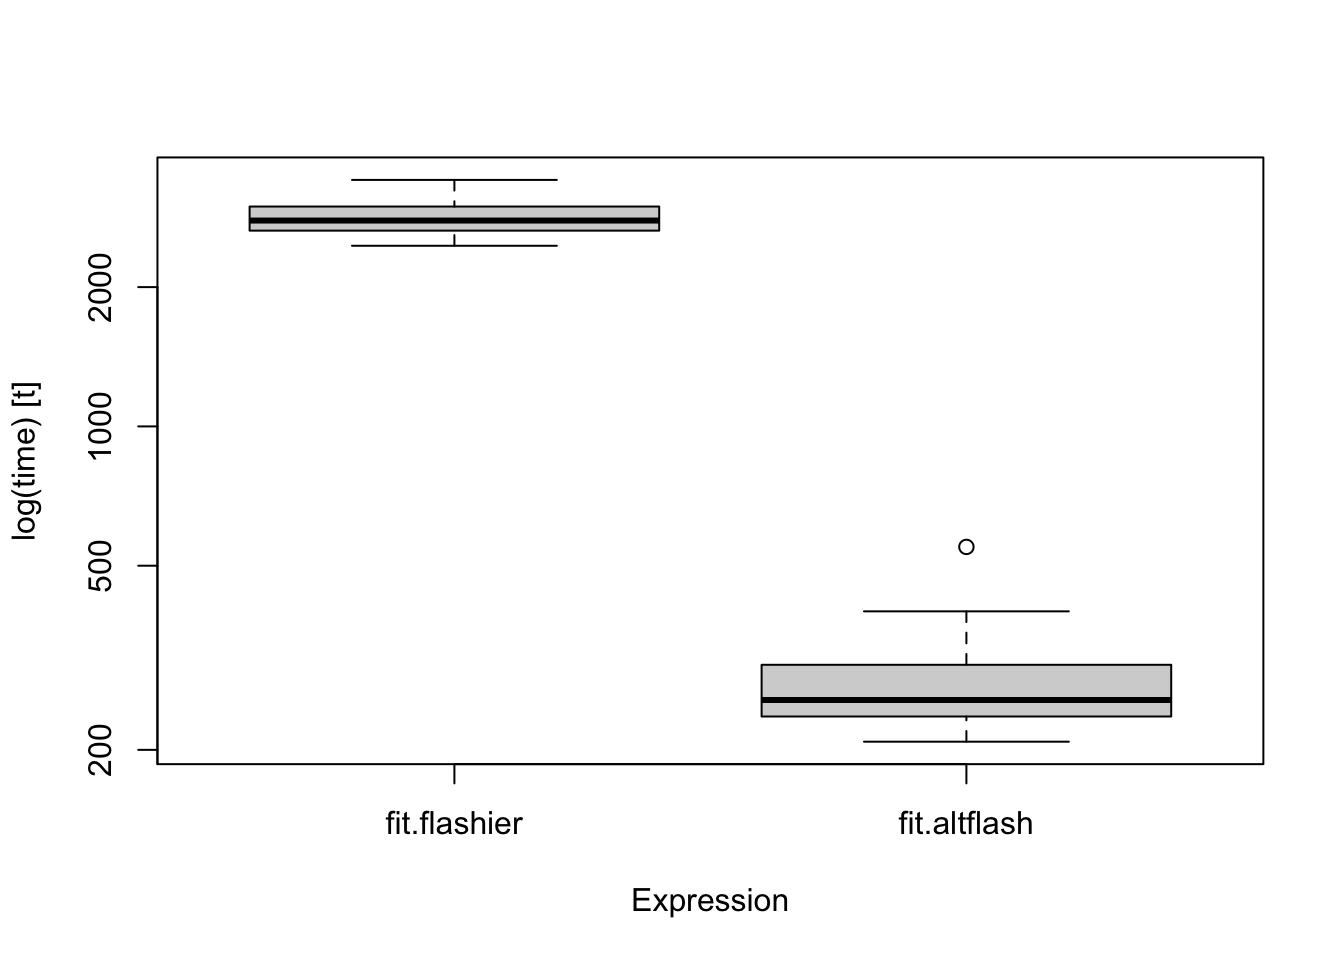
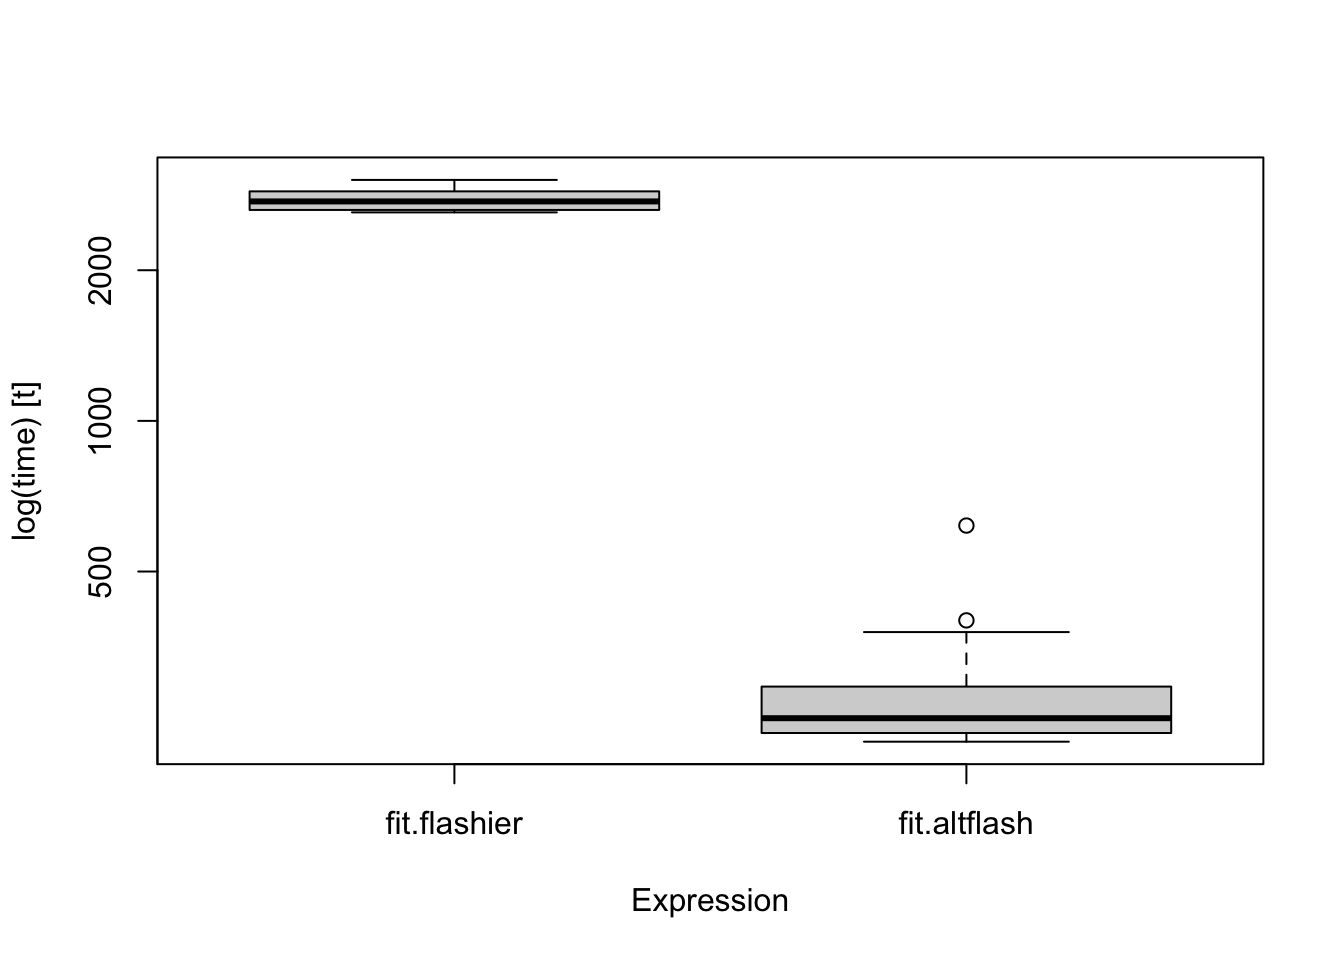
Build site.

diff --git a/docs/alt-flash-normal.html b/docs/alt-flash-normal.html
@@ -476,16 +476,16 @@ This reproducible <a href="http://rmarkdown.rstudio.com">R Markdown</a> analysis
 <div class="panel panel-default">
 <div class="panel-heading">
 <p class="panel-title">
-<a data-toggle="collapse" data-parent="#workflowr-checks" href="#strongRepositoryversionstrongahrefhttpsgithubcomjoonsukkangmftree3224ca8c09505ec0afbc75585a0d6d109eaf7c94targetblank3224ca8a"> <span class="glyphicon glyphicon-ok text-success" aria-hidden="true"></span> <strong>Repository version:</strong> <a href="https://github.com/joonsukkang/mf/tree/3224ca8c09505ec0afbc75585a0d6d109eaf7c94" target="_blank">3224ca8</a> </a>
+<a data-toggle="collapse" data-parent="#workflowr-checks" href="#strongRepositoryversionstrongahrefhttpsgithubcomjoonsukkangmftree37b60336fdfea9e82f7430f1d20f1989ba3b6991targetblank37b6033a"> <span class="glyphicon glyphicon-ok text-success" aria-hidden="true"></span> <strong>Repository version:</strong> <a href="https://github.com/joonsukkang/mf/tree/37b60336fdfea9e82f7430f1d20f1989ba3b6991" target="_blank">37b6033</a> </a>
 </p>
 </div>
[2 lines of base64/hex data omitted]
 <div class="panel-body">
 <p>
 Great! You are using Git for version control. Tracking code development and connecting the code version to the results is critical for reproducibility.
 </p>
 <p>
-The results in this page were generated with repository version <a href="https://github.com/joonsukkang/mf/tree/3224ca8c09505ec0afbc75585a0d6d109eaf7c94" target="_blank">3224ca8</a>. See the <em>Past versions</em> tab to see a history of the changes made to the R Markdown and HTML files.
+The results in this page were generated with repository version <a href="https://github.com/joonsukkang/mf/tree/37b60336fdfea9e82f7430f1d20f1989ba3b6991" target="_blank">37b6033</a>. See the <em>Past versions</em> tab to see a history of the changes made to the R Markdown and HTML files.
 </p>
 <p>
 Note that you need to be careful to ensure that all relevant files for the analysis have been committed to Git prior to generating the results (you can use <code>wflow_publish</code> or <code>wflow_git_commit</code>). workflowr only checks the R Markdown file, but you know if there are other scripts or data files that it depends on. Below is the status of the Git repository when the results were generated:
@@ -588,6 +588,40 @@ Message
 Rmd
 </td>
 <td>
+<a href="https://github.com/joonsukkang/mf/blob/37b60336fdfea9e82f7430f1d20f1989ba3b6991/analysis/alt-flash-normal.Rmd" target="_blank">37b6033</a>
+</td>
+<td>
+Joonsuk Kang
+</td>
+<td>
+2021-08-06
+</td>
+<td>
+alt-flash with normal priors on L and F
+</td>
+</tr>
+<tr>
+<td>
+html
+</td>
+<td>
+<a href="https://rawcdn.githack.com/joonsukkang/mf/d58038a4c6ea0747fb4e3ecdf4dd1ba37b18b8c0/docs/alt-flash-normal.html" target="_blank">d58038a</a>
+</td>
+<td>
+Joonsuk Kang
+</td>
+<td>
+2021-08-06
+</td>
+<td>
+Build site.
+</td>
+</tr>
+<tr>
+<td>
+Rmd
+</td>
+<td>
 <a href="https://github.com/joonsukkang/mf/blob/3224ca8c09505ec0afbc75585a0d6d109eaf7c94/analysis/alt-flash-normal.Rmd" target="_blank">3224ca8</a>
 </td>
 <td>
@@ -620,7 +654,6 @@ x dplyr::lag()    masks stats::lag()</code></pre>
 library(flashier)
 library(ebnm)
 library(microbenchmark)</code></pre>
-<p>version 1. default BLAS version 2. vecLib BLAS</p>
 <div id="alt-flash" class="section level1">
 <h1>Alt-Flash</h1>
 <div id="define-some-internal-functions" class="section level3">
@@ -777,7 +810,7 @@ fit.init &lt;- flash(data=Y, backfit=FALSE,
                             prior.family=prior.normal(), verbose.lvl=0)
 )</code></pre>
 <pre><code>   user  system elapsed 
- 31.718   1.453  15.080 </code></pre>
+ 34.982   1.592  15.693 </code></pre>
 </div>
 <div id="backfit-performance-flashier-v-alt-flash" class="section level3">
 <h3>backfit performance: flashier v alt-flash</h3>
@@ -786,19 +819,56 @@ fit.init &lt;- flash(data=Y, backfit=FALSE,
                            times=20,
                            unit=&#39;s&#39;)
 summary(fit.back)</code></pre>
-<pre><code>          expr       min        lq      mean    median       uq       max neval
-1 fit.flashier 2.4567960 2.6489411 2.8340309 2.7854085 2.986439 3.4095872    20
-2 fit.altflash 0.2082893 0.2361035 0.2854182 0.2563124 0.305387 0.5490156    20</code></pre>
+<pre><code>          expr       min        lq      mean   median        uq       max neval
+1 fit.flashier 2.6099906 2.6394225 2.7726676 2.744886 2.8750445 3.0305532    20
+2 fit.altflash 0.2285241 0.2378311 0.2888263 0.254601 0.2944778 0.6177906    20</code></pre>
 <pre class="r"><code>boxplot(fit.back)</code></pre>
 <p><img src="figure/alt-flash-normal.Rmd/unnamed-chunk-6-1.png" width="672" style="display: block; margin: auto;" /></p>
+<p>
+<button type="button" class="btn btn-default btn-xs btn-workflowr btn-workflowr-fig" data-toggle="collapse" data-target="#fig-unnamed-chunk-6-1">
+Past versions of unnamed-chunk-6-1.png
+</button>
+</p>
+<div id="fig-unnamed-chunk-6-1" class="collapse">
+<div class="table-responsive">
+<table class="table table-condensed table-hover">
+<thead>
+<tr>
+<th>
+Version
+</th>
+<th>
+Author
+</th>
+<th>
+Date
+</th>
+</tr>
+</thead>
+<tbody>
+<tr>
+<td>
+<a href="https://github.com/joonsukkang/mf/blob/d58038a4c6ea0747fb4e3ecdf4dd1ba37b18b8c0/docs/figure/alt-flash-normal.Rmd/unnamed-chunk-6-1.png" target="_blank">d58038a</a>
+</td>
+<td>
+Joonsuk Kang
+</td>
+<td>
+2021-08-06
+</td>
+</tr>
+</tbody>
+</table>
+</div>
+</div>
 <pre class="r"><code># check elbo
 fit.flashier &lt;- flash.backfit(fit.init, verbose.lvl=0)
 fit.altflash &lt;- altflash_normal(fit.init)
 fit.altflash$elbo - fit.flashier$elbo</code></pre>
 <pre><code>[1] -0.0003051162</code></pre>
 </div>
-<div id="draw-figure-for-elbo-evolution" class="section level3">
-<h3>draw figure for elbo evolution</h3>
+<div id="draw-figure-elbo-evolution" class="section level3">
+<h3>draw figure: elbo evolution</h3>
 <p>(the script with <code>eval=FALSE</code> and ran separately to save the figure)</p>
 <pre class="r"><code># to save the elbo sequence and the corresponding running time, overwrite the function &quot;flashier::flash.backfit&quot;
 # the modified code is available at &quot;code/flash.backfit_elbo_tracking&quot;
